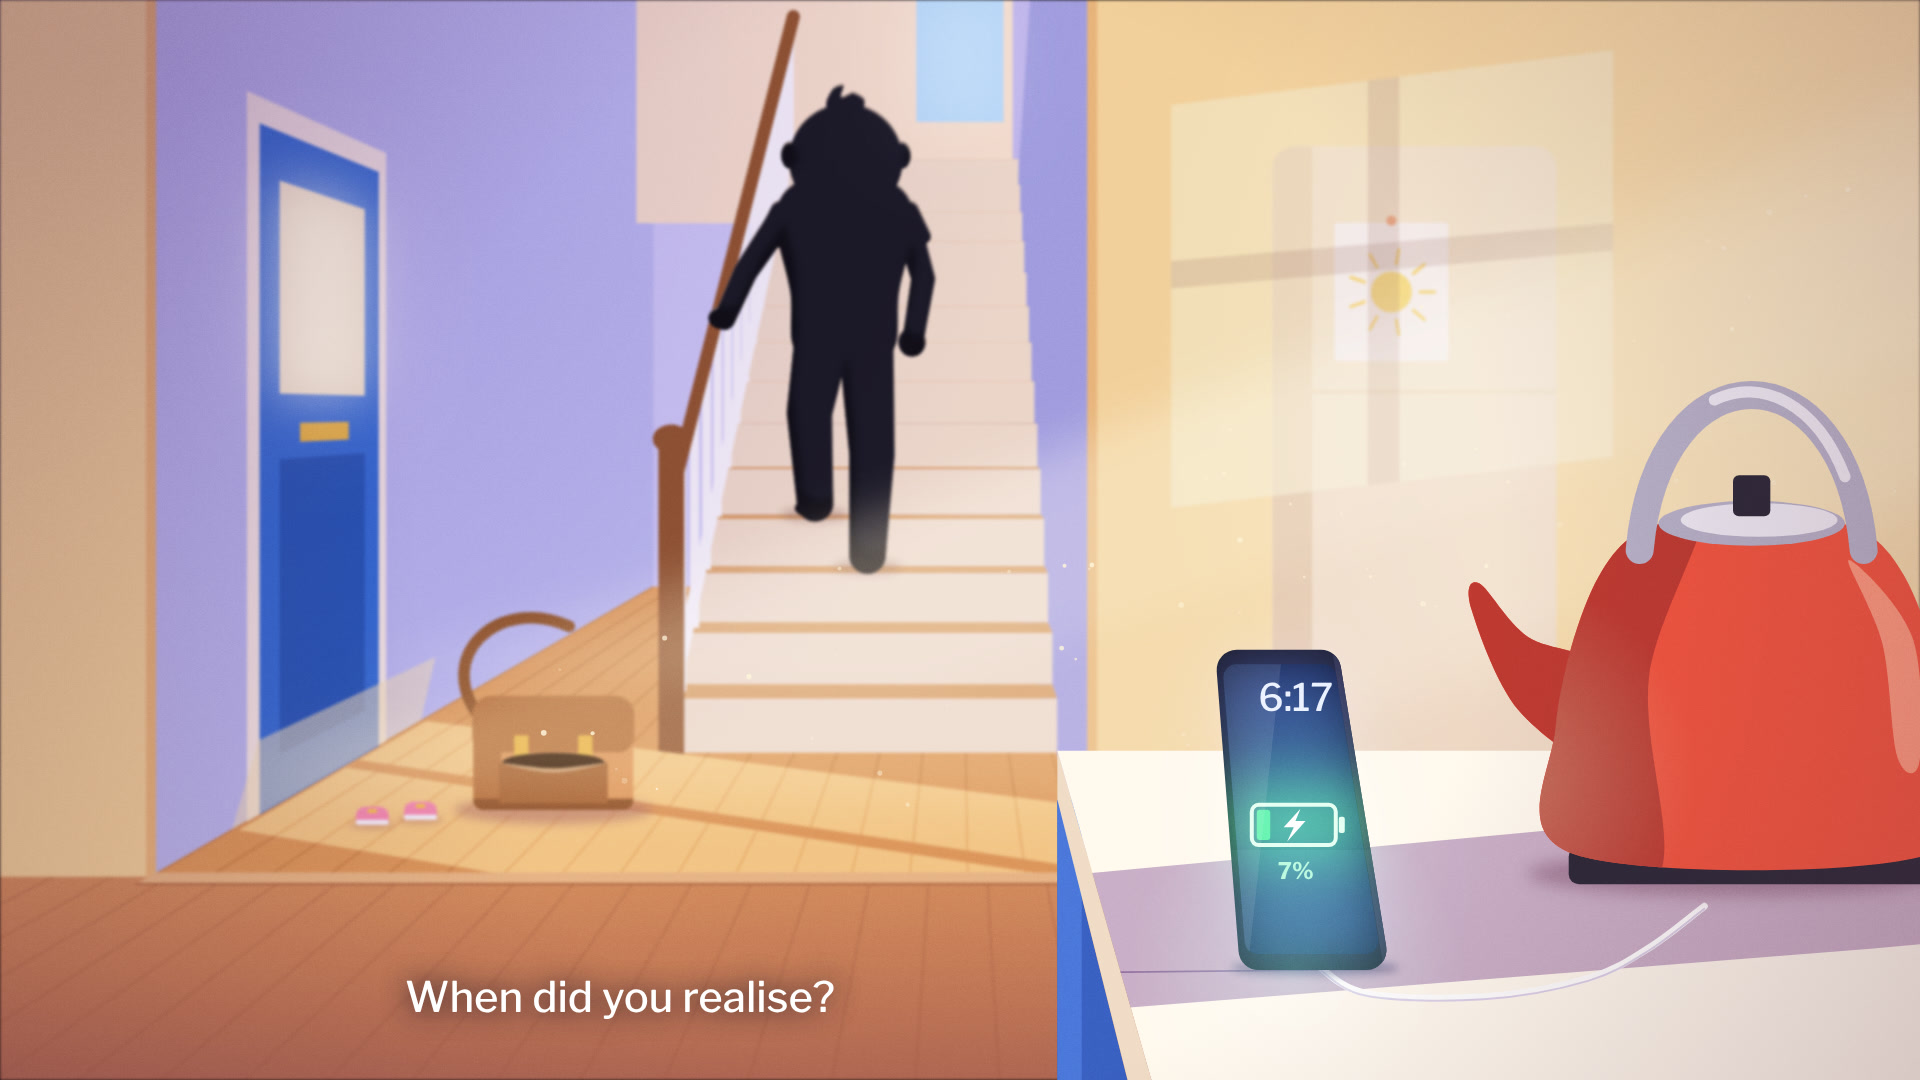
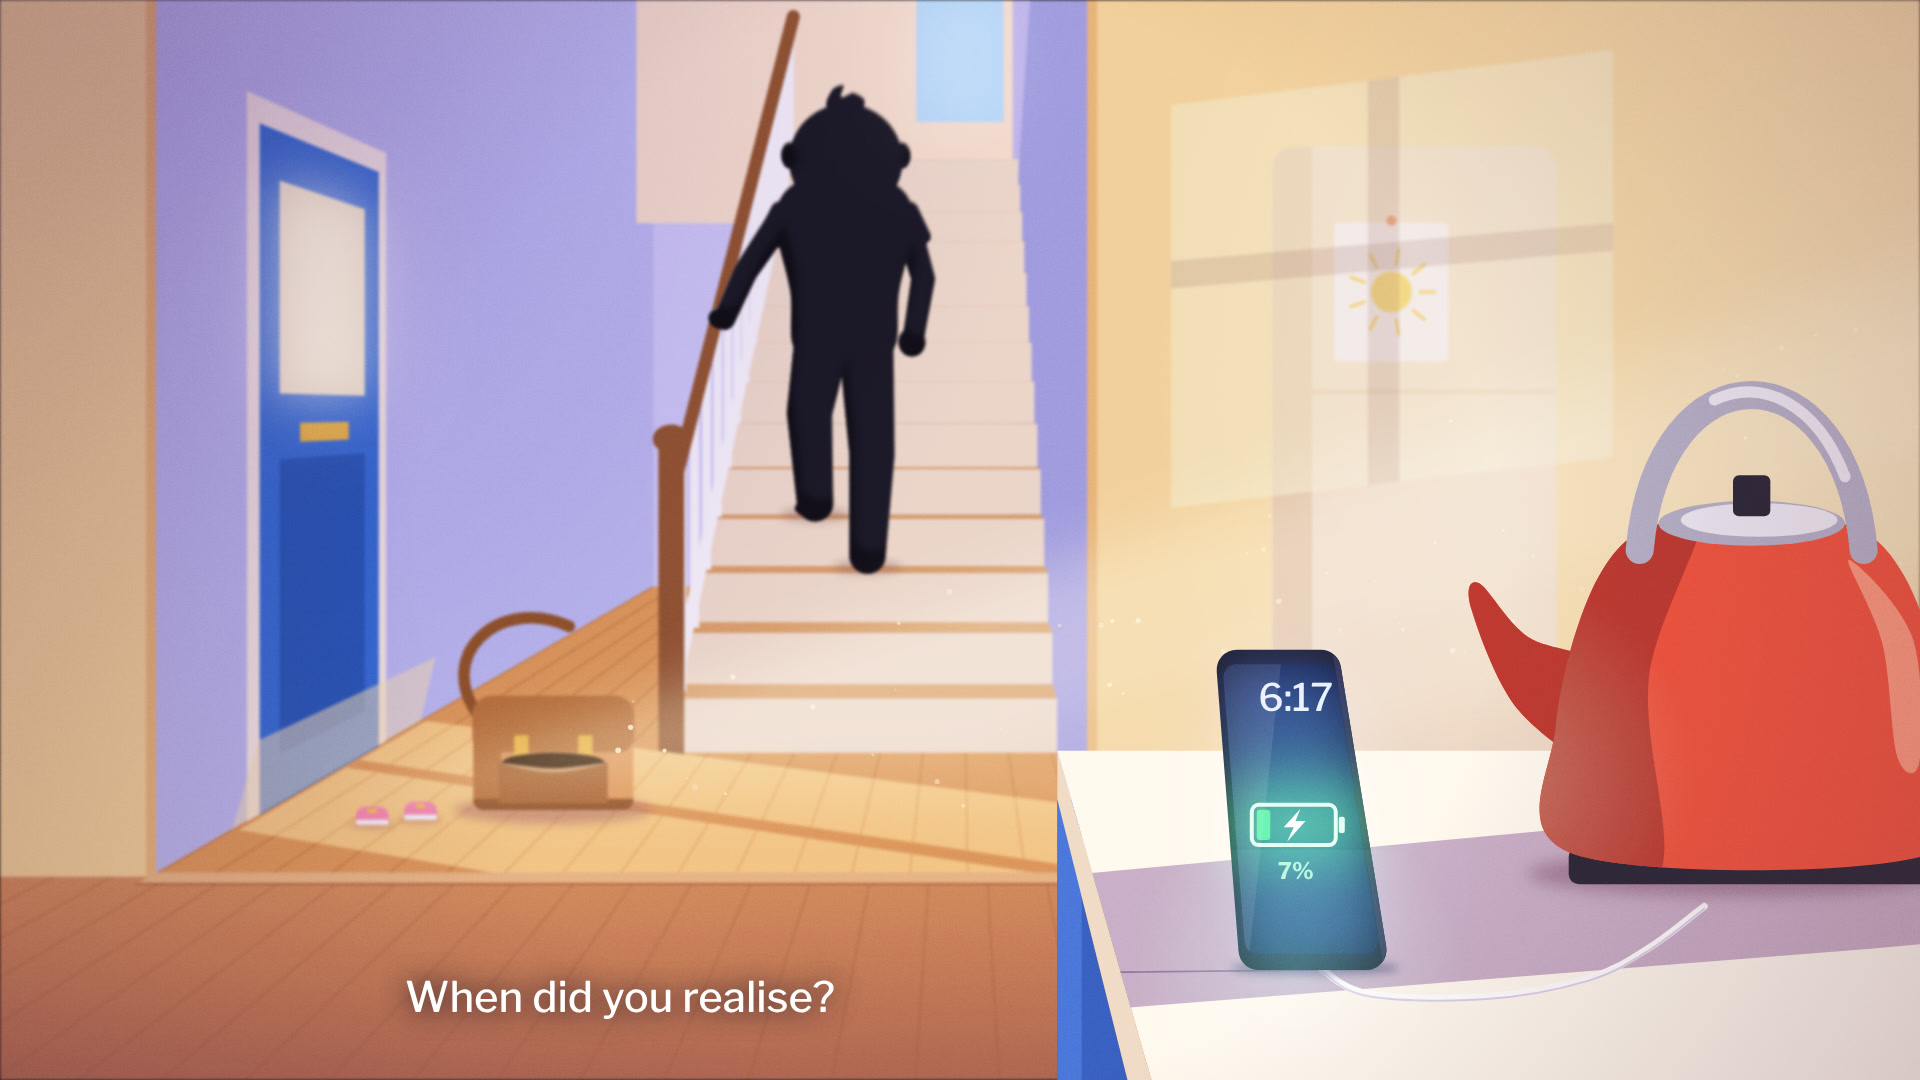
Autopilot: Look B (Bright Day) final frames and notes
Claude-Session: https://claude.ai/code/session_01A8JfgvUzR898ZAVoVKxaGp

Changed region(s): [[0.2188, 0.4583, 0.5312, 0.6722], [0.5, 0.3972, 0.625, 0.5194]]

diff --git a/films/autopilot/src/C3_door.html b/films/autopilot/src/C3_door.html
@@ -56,12 +56,12 @@
     out.fillStyle = '#583834'; out.beginPath(); out.arc(206, 534, 14, 0, Math.PI * 2); out.fill();
     out.fillStyle = '#6E5F50'; out.fillRect(146, 510, 30, 50); out.fillStyle = '#C6BCAA'; out.fillRect(155, 526, 12, 9); }
   // the swings, hanging still; a low railing; the slide
-  const SW = { x0: 96, x1: 430, top: 318, base: HOR + 150 };
+  const SW = { x0: 110, x1: 418, top: 344, base: HOR + 124 };
   const swing = new Path2D();
   { const L = (x0, y0, x1, y1, w) => { const a = Math.atan2(y1 - y0, x1 - x0), nx = -Math.sin(a) * w / 2, ny = Math.cos(a) * w / 2; swing.moveTo(x0 + nx, y0 + ny); swing.lineTo(x1 + nx, y1 + ny); swing.lineTo(x1 - nx, y1 - ny); swing.lineTo(x0 - nx, y0 - ny); swing.closePath(); };
     L(SW.x0 - 62, SW.base, SW.x0, SW.top, 12); L(SW.x0 + 54, SW.base - 26, SW.x0, SW.top, 10); L(SW.x1 - 54, SW.base - 26, SW.x1, SW.top, 10); L(SW.x1 + 62, SW.base, SW.x1, SW.top, 12);
     L(SW.x0 - 10, SW.top, SW.x1 + 10, SW.top, 13);
-    [[170, 226], [298, 354]].forEach(([a, b]) => { L(a, SW.top, a, 590, 3); L(b, SW.top, b, 590, 3); swing.rect(a - 10, 588, b - a + 20, 10); }); }
+    [[176, 226], [296, 346]].forEach(([a, b]) => { L(a, SW.top, a, 584, 3); L(b, SW.top, b, 584, 3); swing.rect(a - 9, 582, b - a + 18, 9); }); }
   out.fillStyle = '#16131A'; out.fill(swing);
   { const rimC = LC.layer(); rimC.fillStyle = '#F2A35E'; rimC.fill(swing); rimC.globalCompositeOperation = 'destination-out'; rimC.translate(-2.6, 1); rimC.fill(swing); out.drawImage(rimC.canvas, 0, 0); }
   const railP = new Path2D(); for (let x = -10; x < RX + 40; x += 14) railP.rect(x, HOR - 16, 2, 16); railP.rect(-10, HOR - 17, RX + 50, 2.5); railP.rect(-10, HOR - 6, RX + 50, 2);
@@ -74,7 +74,7 @@
     // legs, chains and seats: the frame's legs as long bars, the hanging chains as threads, the seats as two dark blades
     [[SW.x0 - 62, SW.base], [SW.x0 + 54, SW.base - 26], [SW.x1 - 54, SW.base - 26], [SW.x1 + 62, SW.base]].forEach(([x, y]) => ray(x, y, 5, 46));
     // the seats hang off the ground, so their shadows begin further along the rays: two dark blades out on the tarmac
-    [[198, 54], [326, 54]].forEach(([x, w]) => { const b = [x + (x - SUN[0]) * 0.32, SW.base + 40]; ray(b[0], b[1], w * 0.42, w * 1.5); });
+    [[201, 50], [321, 50]].forEach(([x, w]) => { const b = [x + (x - SUN[0]) * 0.3, SW.base + 34]; ray(b[0], b[1], w * 0.42, w * 1.5); });
     for (let x = -10; x < RX + 40; x += 32) ray(x, HOR, 0.6, 3.5);
     const shB = LC.blurred(sh.canvas, 1.3, false); out.save(); out.globalAlpha = 0.84; out.beginPath(); out.rect(0, HOR + 1, W, BOT); out.clip(); out.drawImage(shB, 0, 0); out.restore(); }
   g.drawImage(out.canvas, 0, 0);
@@ -94,34 +94,32 @@
   thr.fillStyle = '#FFF2DA'; thr.beginPath(); thr.arc(SUN[0], SUN[1], SR * 0.68, 0, Math.PI * 2); thr.fill();
   // ---- DANIEL: kneeling upright beside the door, head bowed over what he holds, the near arm reaching into the car ----
   const dan = (() => { const p = new Path2D();
-    p.moveTo(1004, BL + 30);
-    p.bezierCurveTo(1000, 548, 1010, 512, 1030, 490);                 // the back, kneeling tall but slumped
-    p.bezierCurveTo(1044, 476, 1060, 470, 1076, 468);                 // the shoulder, fallen
-    p.bezierCurveTo(1086, 467, 1094, 462, 1098, 452);                 // the nape: the neck bends forward here
-    p.bezierCurveTo(1094, 436, 1098, 414, 1112, 398);                 // the back of the skull
-    p.bezierCurveTo(1126, 382, 1148, 376, 1166, 382);                 // the crown, tipped toward the car
-    p.bezierCurveTo(1186, 390, 1198, 408, 1202, 428);                 // forehead
-    p.bezierCurveTo(1204, 440, 1204, 448, 1200, 456);                 // brow, the face turned down
-    p.bezierCurveTo(1204, 462, 1204, 468, 1198, 472);                 // the nose, pointing at what he holds
-    p.bezierCurveTo(1194, 478, 1190, 484, 1182, 488);                 // mouth, chin tucked
-    p.bezierCurveTo(1178, 490, 1174, 492, 1172, 496);                 // under the jaw to the collar
-    p.lineTo(1166, 500); p.lineTo(1176, 506);                         // the collar's point, crooked again
-    p.bezierCurveTo(1210, 506, 1250, 512, 1290, 518);                 // the top of the reaching arm
-    p.bezierCurveTo(1320, 522, 1350, 526, HX + 30, 530);              // the forearm, into the car behind the frame
-    p.lineTo(HX + 30, 558);
-    p.bezierCurveTo(1330, 556, 1290, 550, 1250, 548);                 // under the forearm
-    p.bezierCurveTo(1226, 546, 1208, 548, 1198, 556);                 // the elbow, tucked in
-    p.lineTo(1196, BL + 30);
+    p.moveTo(1006, BL + 30);
+    p.bezierCurveTo(1004, 540, 1014, 506, 1034, 486);                 // the back, kneeling, slumped
+    p.bezierCurveTo(1050, 472, 1070, 464, 1090, 462);                 // the shoulder, fallen forward
+    p.bezierCurveTo(1098, 462, 1104, 466, 1108, 468);                 // the nape: the neck bends forward and down
+    p.bezierCurveTo(1108, 452, 1112, 432, 1124, 418);                 // the back of the skull
+    p.bezierCurveTo(1138, 402, 1162, 398, 1180, 408);                 // the crown, tipped toward the car
+    p.bezierCurveTo(1196, 418, 1206, 436, 1208, 454);                 // forehead
+    p.bezierCurveTo(1209, 464, 1208, 472, 1206, 478);                 // the brow; the face turned straight down
+    p.bezierCurveTo(1209, 484, 1208, 490, 1202, 494);                 // the nose, pointing at the seat
+    p.bezierCurveTo(1198, 500, 1192, 504, 1186, 506);                 // mouth, the chin almost on his chest
+    p.lineTo(1180, 508); p.lineTo(1190, 510);                         // the collar's point, crooked again
+    p.bezierCurveTo(1220, 500, 1252, 498, 1284, 500);                 // the top of the arm: the shirt sleeve, held up above the far trees
+    p.bezierCurveTo(1314, 502, 1342, 506, HX + 30, 510);              // the forearm, resting, into the car behind the frame
+    p.lineTo(HX + 30, 546);
+    p.bezierCurveTo(1332, 542, 1298, 538, 1264, 538);                 // under the forearm
+    p.bezierCurveTo(1240, 538, 1222, 542, 1212, 552);                 // the elbow
+    p.lineTo(1206, BL + 30);
     p.closePath();
-    // the near shoulder's deltoid where the arm leaves the body
-    p.moveTo(1078, 470); p.bezierCurveTo(1108, 462, 1150, 474, 1166, 500); p.bezierCurveTo(1176, 520, 1170, 542, 1152, 554); p.bezierCurveTo(1120, 558, 1090, 544, 1078, 518); p.closePath();
+    // the near shoulder's deltoid, rounding where the arm leaves the body
+    p.moveTo(1092, 466); p.bezierCurveTo(1126, 454, 1172, 462, 1192, 488); p.bezierCurveTo(1204, 508, 1198, 532, 1178, 546); p.bezierCurveTo(1142, 554, 1106, 540, 1092, 514); p.closePath();
     return p; })();
-  OTM.silhouette(thr, dan, { fill: '#0A0E10', light: { x: SUN[0] - 40, y: SUN[1] - 110 }, rimColor: '#F4AE72', rimW: 3.6, rimSoft: true, spread: 1.25, bbox: { x: 990, y: 370, w: 410, h: 220 } });
-  thr.strokeStyle = 'rgba(242,160,96,0.42)'; thr.lineWidth = 1.4; thr.beginPath(); thr.arc(1146, 432, 8, Math.PI * 0.75, Math.PI * 1.45); thr.stroke();   // the ear
+  OTM.silhouette(thr, dan, { fill: '#0A0E10', light: { x: SUN[0] - 40, y: SUN[1] - 110 }, rimColor: '#F4AE72', rimW: 3.6, rimSoft: true, spread: 1.25, bbox: { x: 1000, y: 396, w: 400, h: 200 } });
   // what the glass gives back from our side: the dim eastern sky, a lamp-post behind us; dust lit from behind
   thr.save(); thr.globalCompositeOperation = 'screen'; thr.fillStyle = LC.lin(thr, 0, 178, 0, BL, [[0, '#56607A', 0.3], [1, '#56607A', 0.06]]); thr.fillRect(0, 0, W, H); thr.restore();
   LC.glare(thr, null, { x: 860, y: 380, angle: -1.05, color: '#FFE2BC', bands: [{ d: -120, w: 90, a: 0.05 }, { d: -62, w: 15, a: 0.07 }, { d: 290, w: 150, a: 0.035 }] });
-  LC.specks(thr, null, { x: 560, y: 178, w: 810, h: 390 }, 'doorDust', { n: 420, color: '#FFD9A8', rMin: 0.5, rMax: 1.4, aMin: 0.06, aMax: 0.5, scratch: 0.05, near: { x: SUN[0], y: SUN[1], r: 300 } });
+  LC.specks(thr, null, { x: 560, y: 178, w: 810, h: 390 }, 'doorDust', { n: 360, color: '#FFD9A8', rMin: 0.5, rMax: 1.3, aMin: 0.05, aMax: 0.42, scratch: 0, near: { x: SUN[0], y: SUN[1], r: 300 } });
   g.save(); g.clip(winPath); g.drawImage(thr.canvas, 0, 0); g.restore();
   E.save(); E.beginPath(); E.rect(0, 0, W, BL); E.clip(); E.fillStyle = '#FFD7A0'; E.beginPath(); E.arc(SUN[0], SUN[1], 54, 0, Math.PI * 2); E.fill(); E.fillStyle = 'rgba(230,140,80,0.3)'; E.beginPath(); E.arc(SUN[0], SUN[1], 120, 0, Math.PI * 2); E.fill(); E.restore();
 

diff --git a/films/autopilot/src/B1_counter.html b/films/autopilot/src/B1_counter.html
@@ -196,9 +196,10 @@
   g.restore();
   // the morning sun made visible: a beam from the kitchen window (off right) down to the patch by the door, motes turning in it
   { const pA = P(0.55, 0, 4.2), pB = P(-1.98, 0, 4.0), pC = P(-1.98, 0, 5.4);
-    const beam = [[W + 80, 60], [W + 80, 470], [pA[0], pA[1]], [pB[0], pB[1] - 40]];
+    // (it passes below Daniel's feet: the beam crosses the kitchen and the hall floor, not the stairwell)
+    const beam = [[W + 80, 230], [W + 80, 560], [pA[0], pA[1]], [pB[0] + 90, pB[1] - 30]];
     LB.shaft(g, beam, '#FFE9B4', 0.26, 26);
-    LB.shaft(g, [[W + 80, 150], [W + 80, 330], [pA[0] - 200, pA[1] - 120], [pB[0] + 120, pB[1] - 160]], '#FFF3D2', 0.12, 18);
+    LB.shaft(g, [[W + 80, 300], [W + 80, 430], [pA[0] - 160, pA[1] - 60], [pB[0] + 220, pB[1] - 60]], '#FFF3D2', 0.12, 18);
     LB.motes(g, beam, 70, '#FFF6DC', 'b1-motes', 2.2); }
 
   // ======================= FOREGROUND (sharp): counter, kettle, phone =======================
